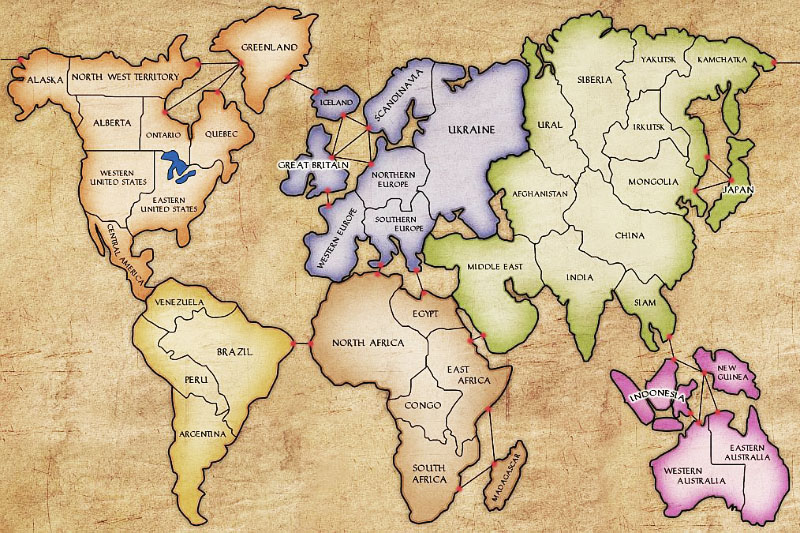
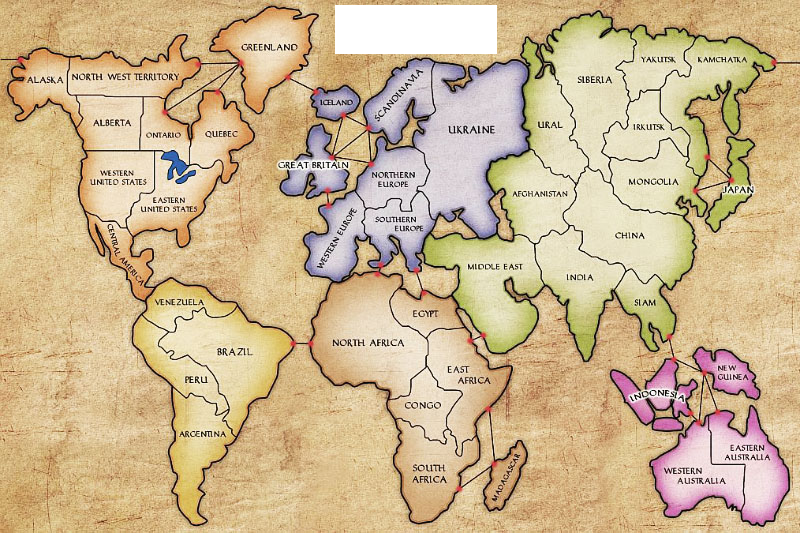
some visulizations

Changed region(s): [[0.4062, 0.0, 0.625, 0.1201]]

diff --git a/riskenv.py b/riskenv.py
@@ -2,7 +2,7 @@ import gymnasium as gym
 from gymnasium.spaces import Dict, Discrete, MultiDiscrete, Graph 
 from riskstate import *
 from maps import default_map, default_names
-from visualize import ImageLocations, IMG_DIR
+from visualize import ImageLocations, IMG_DIR, TextBoxLocation, TextRect
 import numpy as np 
 import random
 import pygame
@@ -33,6 +33,7 @@ class RiskEnv(gym.Env):
         n_territories = self.risk.n_territories()
         self.n_phases = len(Phases)
         self.MAX_ARMIES = 30
+        self.last_action = None
 
         self.action_space = Discrete( n_territories + 1 )
 
@@ -83,6 +84,36 @@ class RiskEnv(gym.Env):
             text_surface = self.font.render(f'{self.risk.territories[idx, ARMIES]}', False, (0, 0, 0))
             pygame.draw.circle(canvas, (255, 255, 255), self.rects[t_name].center, 10)
             canvas.blit(text_surface, self.rects[t_name].center)
+
+        # DRAW LAST MOVE
+        if self.last_action != None and self.last_action != self.risk.DO_NOTHING:
+            text_surface = self.font.render(f'{self.risk.territories[self.last_action, ARMIES]}', False, (0, 0, 0))
+            pygame.draw.circle(canvas, (0, 0, 255), self.rects[default_names[self.last_action]].center, 15)
+            canvas.blit(text_surface, self.rects[default_names[self.last_action]].center)
+
+
+        text_surface = self.font.render(f'{type(self.risk)}', False, (0, 0, 0))
+        canvas.blit(text_surface, TextRect)
+
+        # if type(self.risk) == RecruitmentPhase:
+        #     pass
+        # elif type(self.risk) == FirstFromAttackPhase:
+        #     pass
+        # elif type(self.risk) == FirstToAttackPhase:
+        #     pass
+        # elif type(self.risk) == ContinueAttackPhase:
+        #     pass
+        # elif type(self.risk) == ReinforcePhase:
+        #     pass
+        # elif type(self.risk) == SubsequentAttackPhase:
+        #     pass
+        # elif type(self.risk) == FortifyPhase1:
+        #     pass
+        # elif type(self.risk) == FortifyPhase2:
+        #     pass
+        # elif type(self.risk) == FortifyPhase3:
+        #     pass
+
         self.window.blit(canvas, canvas.get_rect())
         pygame.display.update()
         self.clock.tick(self.fps)
@@ -125,6 +156,7 @@ class RiskEnv(gym.Env):
         self.risk = state
         obs = dict(Phase=np.array([Phases.index(type(self.risk).__name__)]), Territories = self.risk.territories)
         # obs = self.risk.territories
+        self.last_action = int(action)
         return (obs, reward, self.risk.finished() , info)
 
     def reset(self):

diff --git a/visualize.py b/visualize.py
@@ -52,6 +52,10 @@ ImageLocations = {
     "Siam": [604, 259]
 }
 
+TextBoxLocation = [335, 5]
+
+TextRect = pygame.rect.Rect(335, 5, 162, 49)
+
 IMG_DIR = './risk-map'
 
 # pygame.image.save(create_map(), "out.png")
